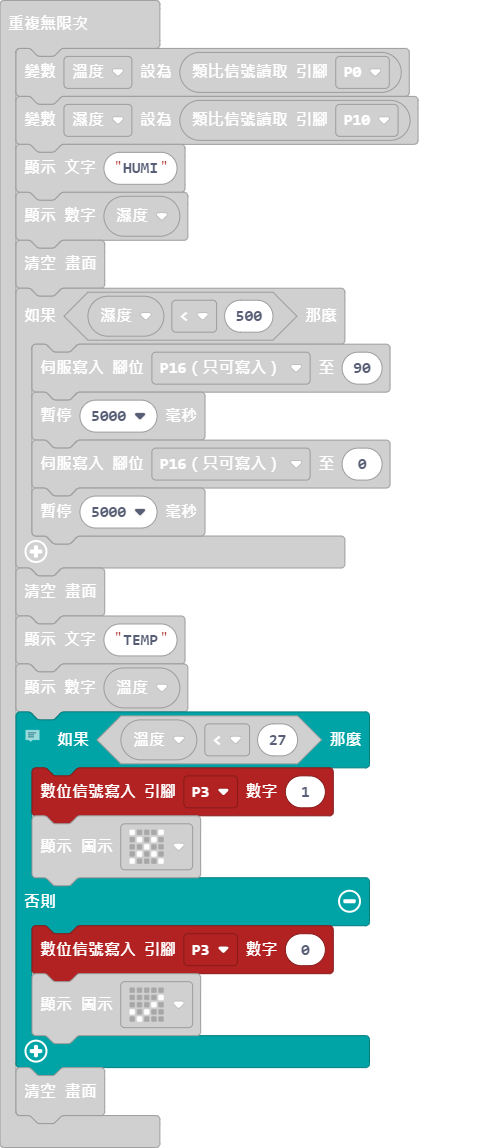
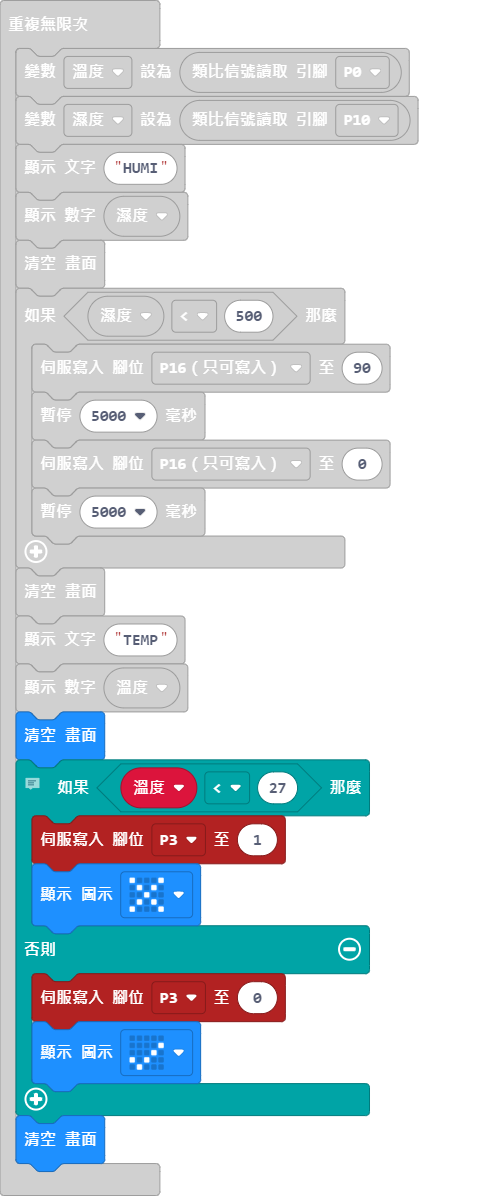
更新 main.blocks, main.ts

Changed region(s): [[0.0304, 0.0305, 0.8502, 1.0]]

diff --git a/main.ts b/main.ts
@@ -15,12 +15,13 @@ basic.forever(function () {
     basic.clearScreen()
     basic.showString("TEMP")
     basic.showNumber(溫度)
+    basic.clearScreen()
     // 預計會開燈，增加溫度
     if (溫度 < 27) {
-        pins.digitalWritePin(DigitalPin.P3, 1)
+        pins.servoWritePin(AnalogPin.P3, 1)
         basic.showIcon(IconNames.No)
     } else {
-        pins.digitalWritePin(DigitalPin.P3, 0)
+        pins.servoWritePin(AnalogPin.P3, 0)
         basic.showIcon(IconNames.Yes)
     }
     basic.clearScreen()
